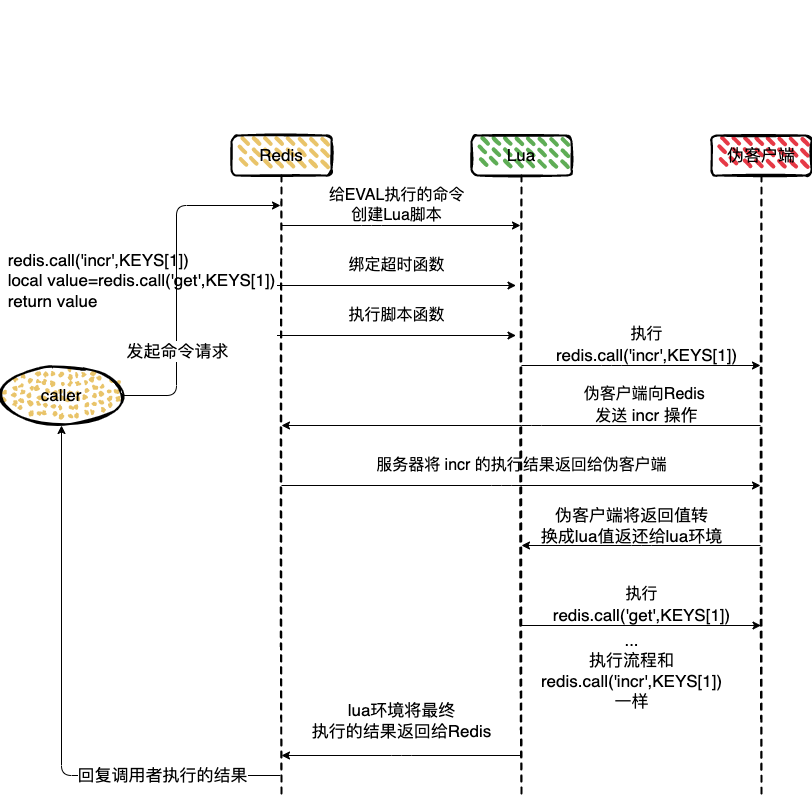
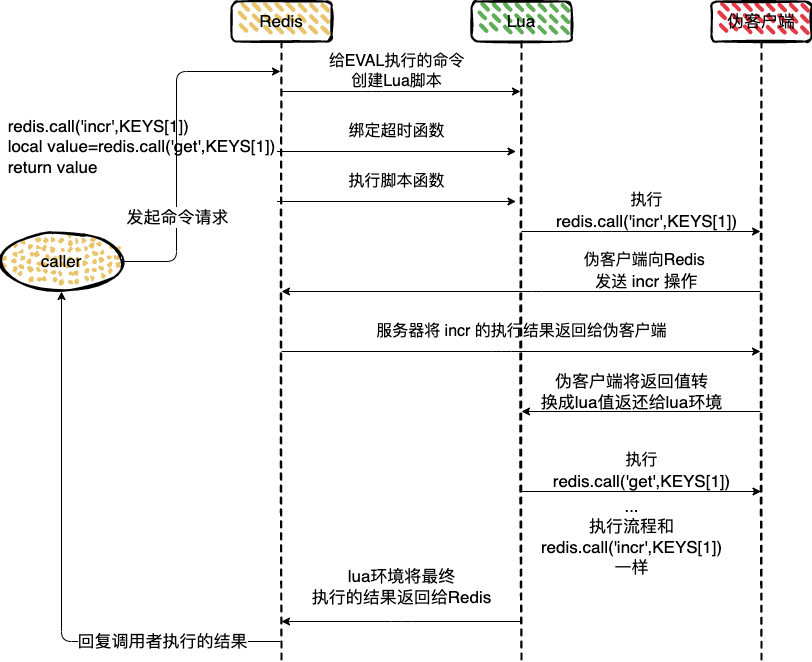
feat:redis 中如何使用lua脚本

diff --git a/redis/10、Redis中的原子操作(2)-使用LUA保证命令原子性.md b/redis/10、Redis中的原子操作(2)-使用LUA保证命令原子性.md
@@ -565,6 +565,171 @@ void luaCallFunction(scriptRunCtx* run_ctx, lua_State *lua, robj** keys, size_t 
 
 6、将 Lua 函数执行所得的结果转换成 Redis 回复，然后传给调用者客户端。    
 
+上面可以看到 lua 中的脚本是由 lua_pcall 进行调用的，如果一个 lua 脚本中有多个 redis.call 调用或者 redis.pcall 调用的请求命令，又是如何处理的呢，这里来分析下  
+
+```
+/* redis.call() */
+static int luaRedisCallCommand(lua_State *lua) {
+    return luaRedisGenericCommand(lua,1);
+}
+
+/* redis.pcall() */
+static int luaRedisPCallCommand(lua_State *lua) {
+    return luaRedisGenericCommand(lua,0);
+}
+
+// https://github.com/redis/redis/blob/7.0/src/script_lua.c#L838
+static int luaRedisGenericCommand(lua_State *lua, int raise_error) {
+    int j;
+    scriptRunCtx* rctx = luaGetFromRegistry(lua, REGISTRY_RUN_CTX_NAME);
+    if (!rctx) {
+        luaPushError(lua, "redis.call/pcall can only be called inside a script invocation");
+        return luaError(lua);
+    }
+    sds err = NULL;
+    client* c = rctx->c;
+    sds reply;
+
+    // 处理请求的参数
+    int argc;
+    robj **argv = luaArgsToRedisArgv(lua, &argc);
+    if (argv == NULL) {
+        return raise_error ? luaError(lua) : 1;
+    }
+
+    static int inuse = 0;   /* Recursive calls detection. */
+
+    ...
+
+    /* Log the command if debugging is active. */
+    if (ldbIsEnabled()) {
+        sds cmdlog = sdsnew("<redis>");
+        for (j = 0; j < c->argc; j++) {
+            if (j == 10) {
+                cmdlog = sdscatprintf(cmdlog," ... (%d more)",
+                    c->argc-j-1);
+                break;
+            } else {
+                cmdlog = sdscatlen(cmdlog," ",1);
+                cmdlog = sdscatsds(cmdlog,c->argv[j]->ptr);
+            }
+        }
+        ldbLog(cmdlog);
+    }
+    // 执行 redis 中的命令
+    scriptCall(rctx, argv, argc, &err);
+    if (err) {
+        luaPushError(lua, err);
+        sdsfree(err);
+        /* push a field indicate to ignore updating the stats on this error
+         * because it was already updated when executing the command. */
+        lua_pushstring(lua,"ignore_error_stats_update");
+        lua_pushboolean(lua, true);
+        lua_settable(lua,-3);
+        goto cleanup;
+    }
+
+    /* Convert the result of the Redis command into a suitable Lua type.
+     * The first thing we need is to create a single string from the client
+     * output buffers. */
+     // 将返回值转换成 lua 类型
+     // 在客户端的输出缓冲区创建一个字符串
+    if (listLength(c->reply) == 0 && (size_t)c->bufpos < c->buf_usable_size) {
+        /* This is a fast path for the common case of a reply inside the
+         * client static buffer. Don't create an SDS string but just use
+         * the client buffer directly. */
+        c->buf[c->bufpos] = '\0';
+        reply = c->buf;
+        c->bufpos = 0;
+    } else {
+        reply = sdsnewlen(c->buf,c->bufpos);
+        c->bufpos = 0;
+        while(listLength(c->reply)) {
+            clientReplyBlock *o = listNodeValue(listFirst(c->reply));
+
+            reply = sdscatlen(reply,o->buf,o->used);
+            listDelNode(c->reply,listFirst(c->reply));
+        }
+    }
+    if (raise_error && reply[0] != '-') raise_error = 0;
+    // 将回复转换为 Lua 值
+    redisProtocolToLuaType(lua,reply);
+
+    /* If the debugger is active, log the reply from Redis. */
+    if (ldbIsEnabled())
+        ldbLogRedisReply(reply);
+
+    if (reply != c->buf) sdsfree(reply);
+    c->reply_bytes = 0;
+
+cleanup:
+    /* Clean up. Command code may have changed argv/argc so we use the
+     * argv/argc of the client instead of the local variables. */
+    freeClientArgv(c);
+    c->user = NULL;
+    inuse--;
+
+    if (raise_error) {
+        /* If we are here we should have an error in the stack, in the
+         * form of a table with an "err" field. Extract the string to
+         * return the plain error. */
+        return luaError(lua);
+    }
+    return 1;
+}
+
+// https://github.com/redis/redis/blob/7.0/src/script.c#L492
+// 调用Redis命令。并且写回结果到运行的ctx客户端，
+void scriptCall(scriptRunCtx *run_ctx, robj* *argv, int argc, sds *err) {
+    client *c = run_ctx->c;
+
+    // 设置伪客户端执行命令
+    c->argv = argv;
+    c->argc = argc;
+    c->user = run_ctx->original_client->user;
+
+    /* Process module hooks */
+    // 处理 hooks 模块
+    moduleCallCommandFilters(c);
+    argv = c->argv;
+    argc = c->argc;
+
+    // 查找命令的实现函数
+    struct redisCommand *cmd = lookupCommand(argv, argc);
+    c->cmd = c->lastcmd = c->realcmd = cmd;
+    
+    ...
+
+    int call_flags = CMD_CALL_SLOWLOG | CMD_CALL_STATS;
+    if (run_ctx->repl_flags & PROPAGATE_AOF) {
+        call_flags |= CMD_CALL_PROPAGATE_AOF;
+    }
+    if (run_ctx->repl_flags & PROPAGATE_REPL) {
+        call_flags |= CMD_CALL_PROPAGATE_REPL;
+    }
+    // 执行命令
+    call(c, call_flags);
+    serverAssert((c->flags & CLIENT_BLOCKED) == 0);
+    return;
+
+error:
+    afterErrorReply(c, *err, sdslen(*err), 0);
+    incrCommandStatsOnError(cmd, ERROR_COMMAND_REJECTED);
+}
+```
+
+luaRedisGenericCommand 函数处理的大致流程  
+
+1、检查执行的环境以及参数；  
+
+2、执行命令；  
+
+3、将命令的返回值从 Redis 类型转换成 Lua 类型，回复给 lua 环境;  
+
+4、环境的清理。   
+
+看下总体的命令处理过程  
+
 <img src="/img/redis/redis-lua.png"  alt="redis" />
 
 ### 参考
